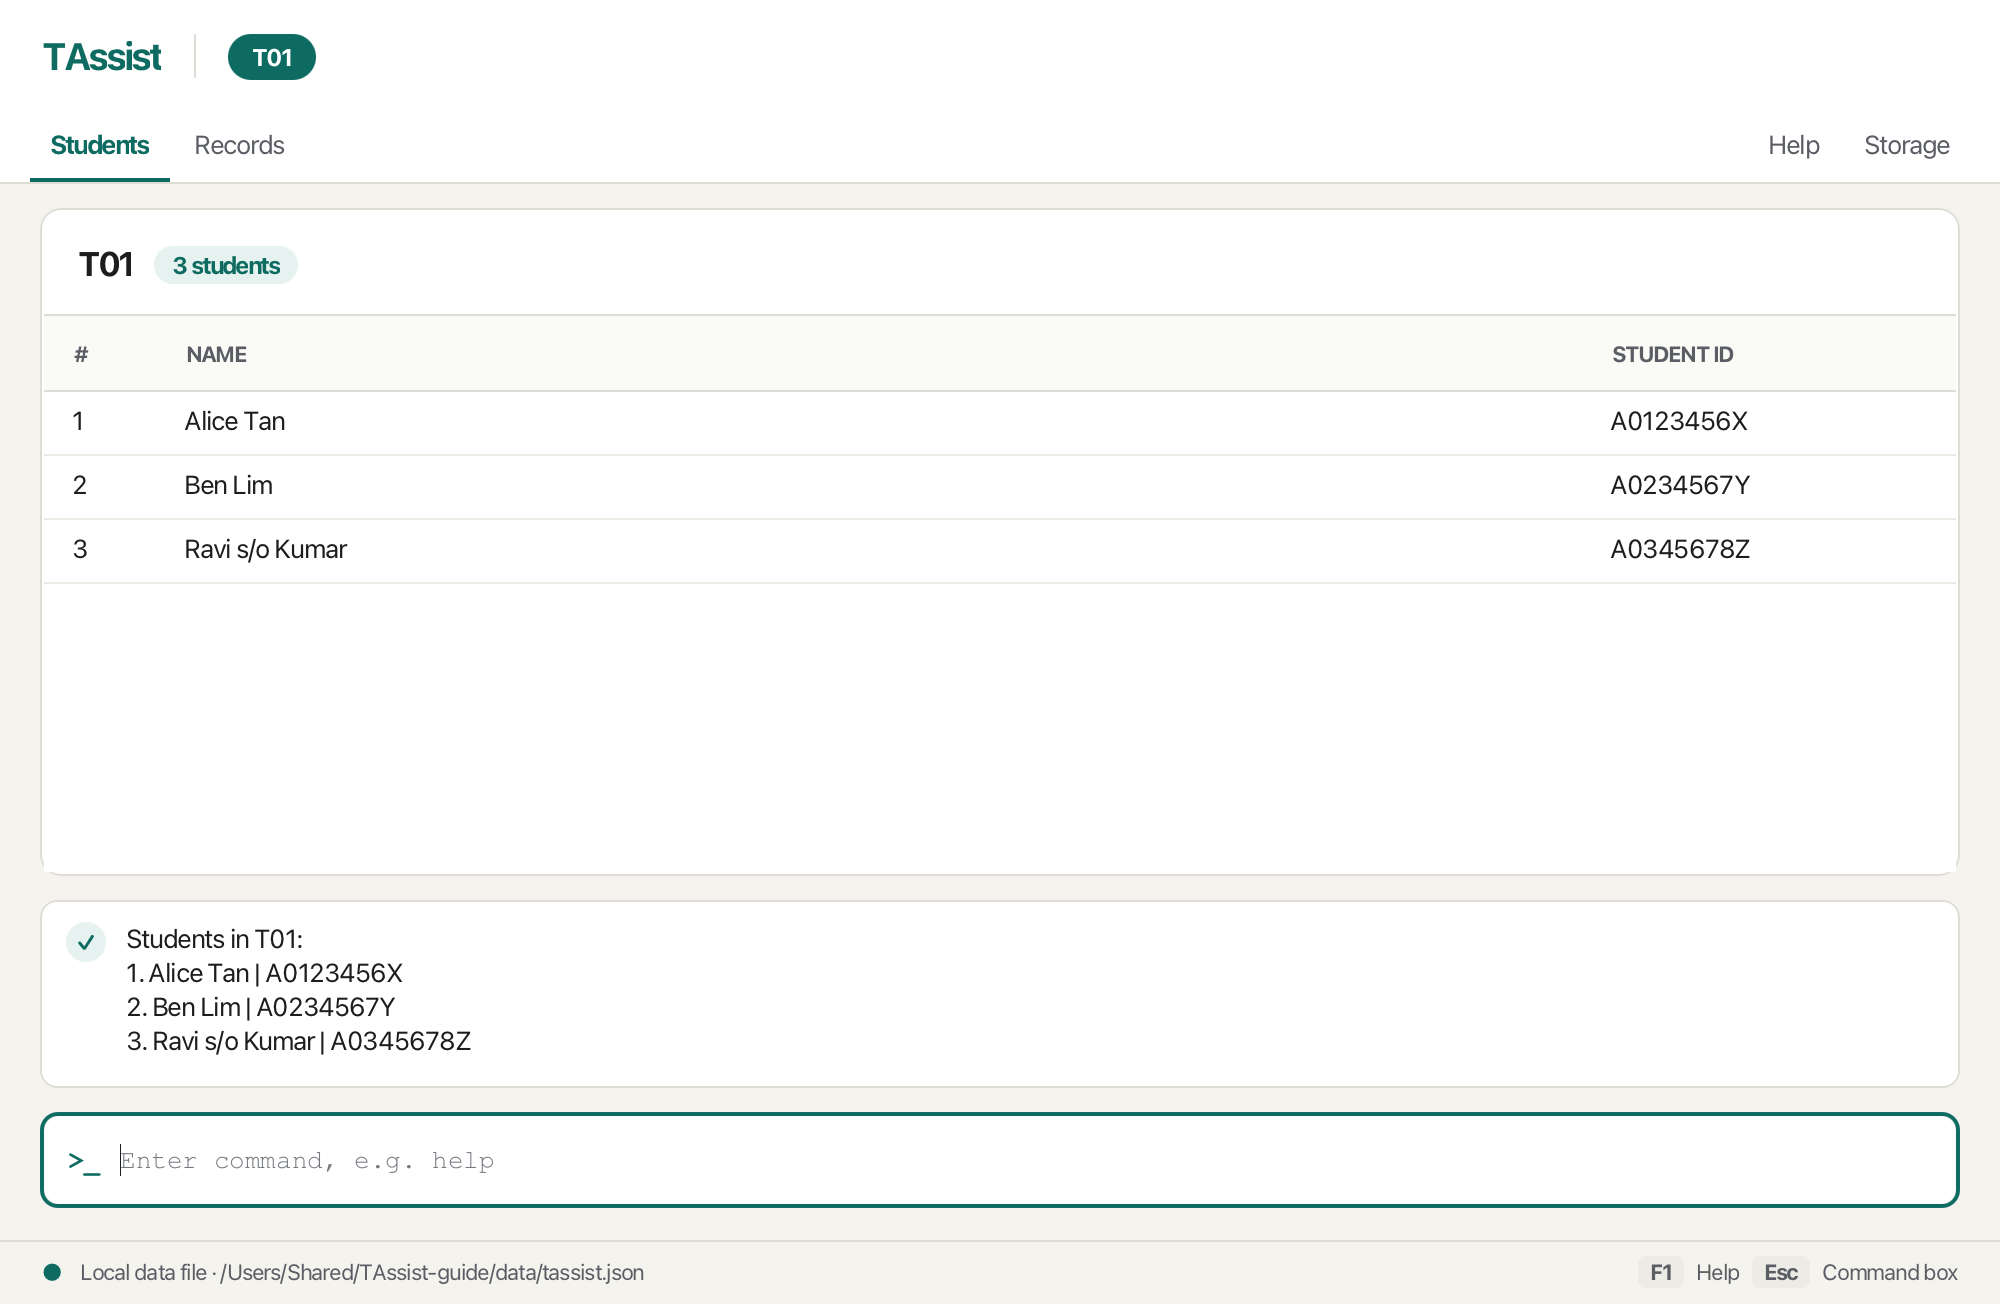
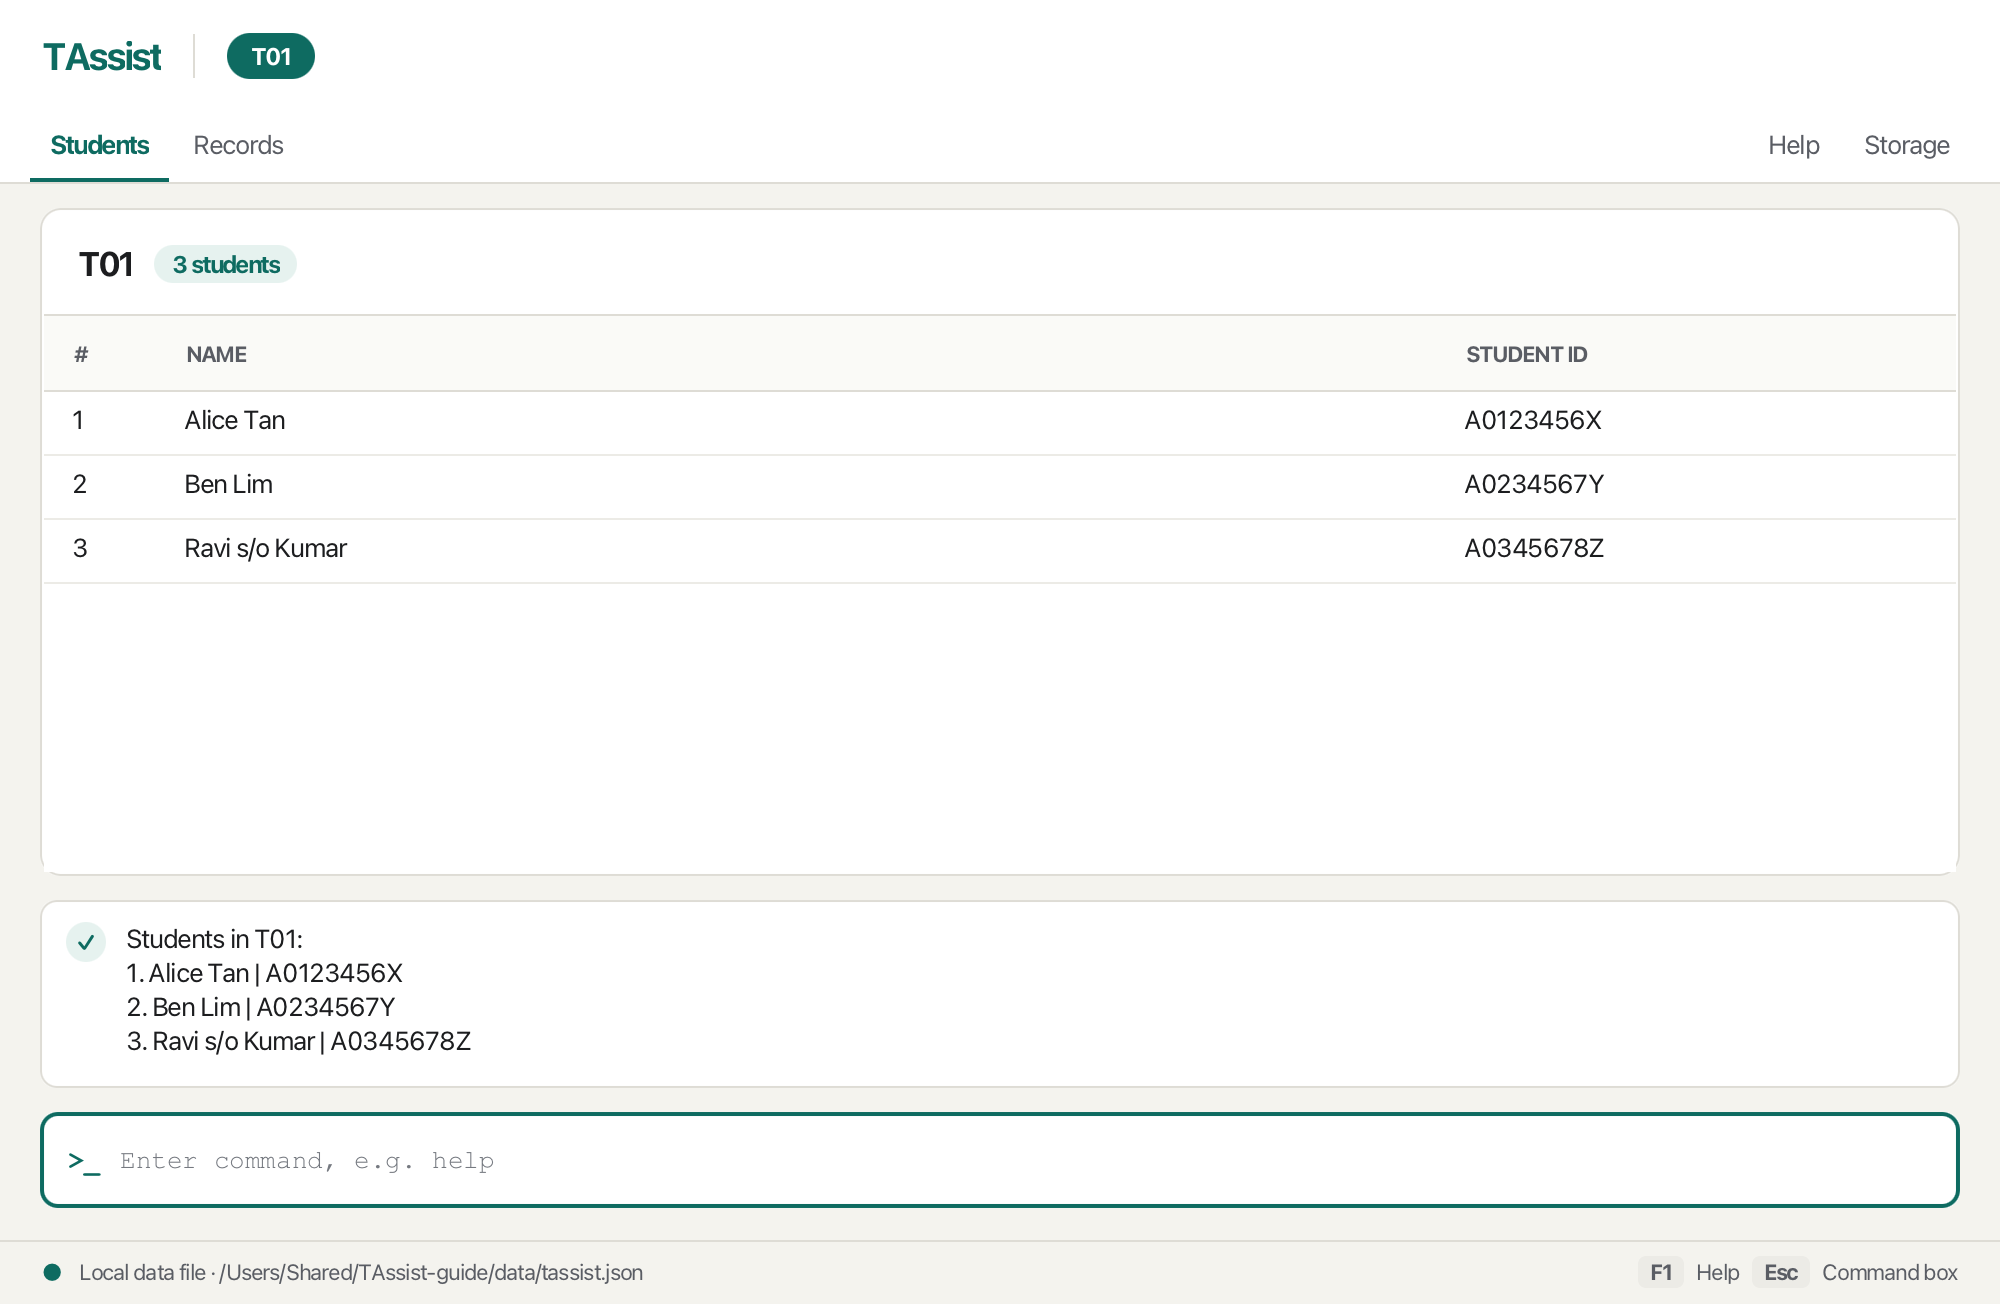
Keep long IDs and group names distinguishable
A valid 20-character ID of wide letters is cut off in the Students
table, and long group names that differ only at the end look the same
in the group bar.

Let's widen the ID column within the existing limits and shorten group
names in the middle instead of at the end.

diff --git a/src/main/java/seedu/address/ui/GroupStrip.java b/src/main/java/seedu/address/ui/GroupStrip.java
@@ -12,6 +12,7 @@ import javafx.css.PseudoClass;
 import javafx.fxml.FXML;
 import javafx.geometry.Bounds;
 import javafx.scene.control.Label;
+import javafx.scene.control.OverrunStyle;
 import javafx.scene.control.ScrollPane;
 import javafx.scene.control.Tooltip;
 import javafx.scene.layout.HBox;
@@ -106,6 +107,8 @@ public class GroupStrip extends UiPart<ScrollPane> {
         Label chip = new Label(name);
         chip.getStyleClass().add("group-chip");
         chip.setMaxWidth(CHIP_MAX_WIDTH);
+        // Long names that differ only at the end stay distinguishable.
+        chip.setTextOverrun(OverrunStyle.CENTER_ELLIPSIS);
         chip.setTooltip(new Tooltip(name));
         chip.pseudoClassStateChanged(ACTIVE, isActive(group));
         return chip;

diff --git a/src/main/java/seedu/address/ui/StudentListPanel.java b/src/main/java/seedu/address/ui/StudentListPanel.java
@@ -47,8 +47,8 @@ public class StudentListPanel extends UiPart<Region> {
 
     private static final String FXML = "StudentListPanel.fxml";
     private static final double ROW_NUMBER_WIDTH = 56;
-    private static final double NAME_COLUMN_WIDTH = 320;
-    private static final double ID_COLUMN_WIDTH = 180;
+    private static final double NAME_COLUMN_WIDTH = 280;
+    private static final double ID_COLUMN_WIDTH = 260;
     /** Wide enough for a 20-character student ID, so that the ID the TA must type is shown in full. */
     private static final double ID_COLUMN_MAX_WIDTH = 260;
     private static final double TOOLTIP_MAX_WIDTH = 480;

diff --git a/docs/UserGuide.md b/docs/UserGuide.md
@@ -46,7 +46,8 @@ opened TAssist.
 
 The bar at the top shows the **tutorial groups** next to the TAssist name, with the active group highlighted, and
 the **screens** below it. **Students** and **Records** are on the left; **Help** and **Storage** are on the right.
-Hover over a screen, or over a shortened group name, to see more. The tooltip of a screen names the command that does
+Hover over a screen, or over a shortened group name, to see more. A long group name is shortened in the middle, so
+names that differ only at the end still look different. The tooltip of a screen names the command that does
 the same, such as `view storage`.
 
 ![TAssist displaying the Students screen for tutorial group T01](images/Ui.png)
